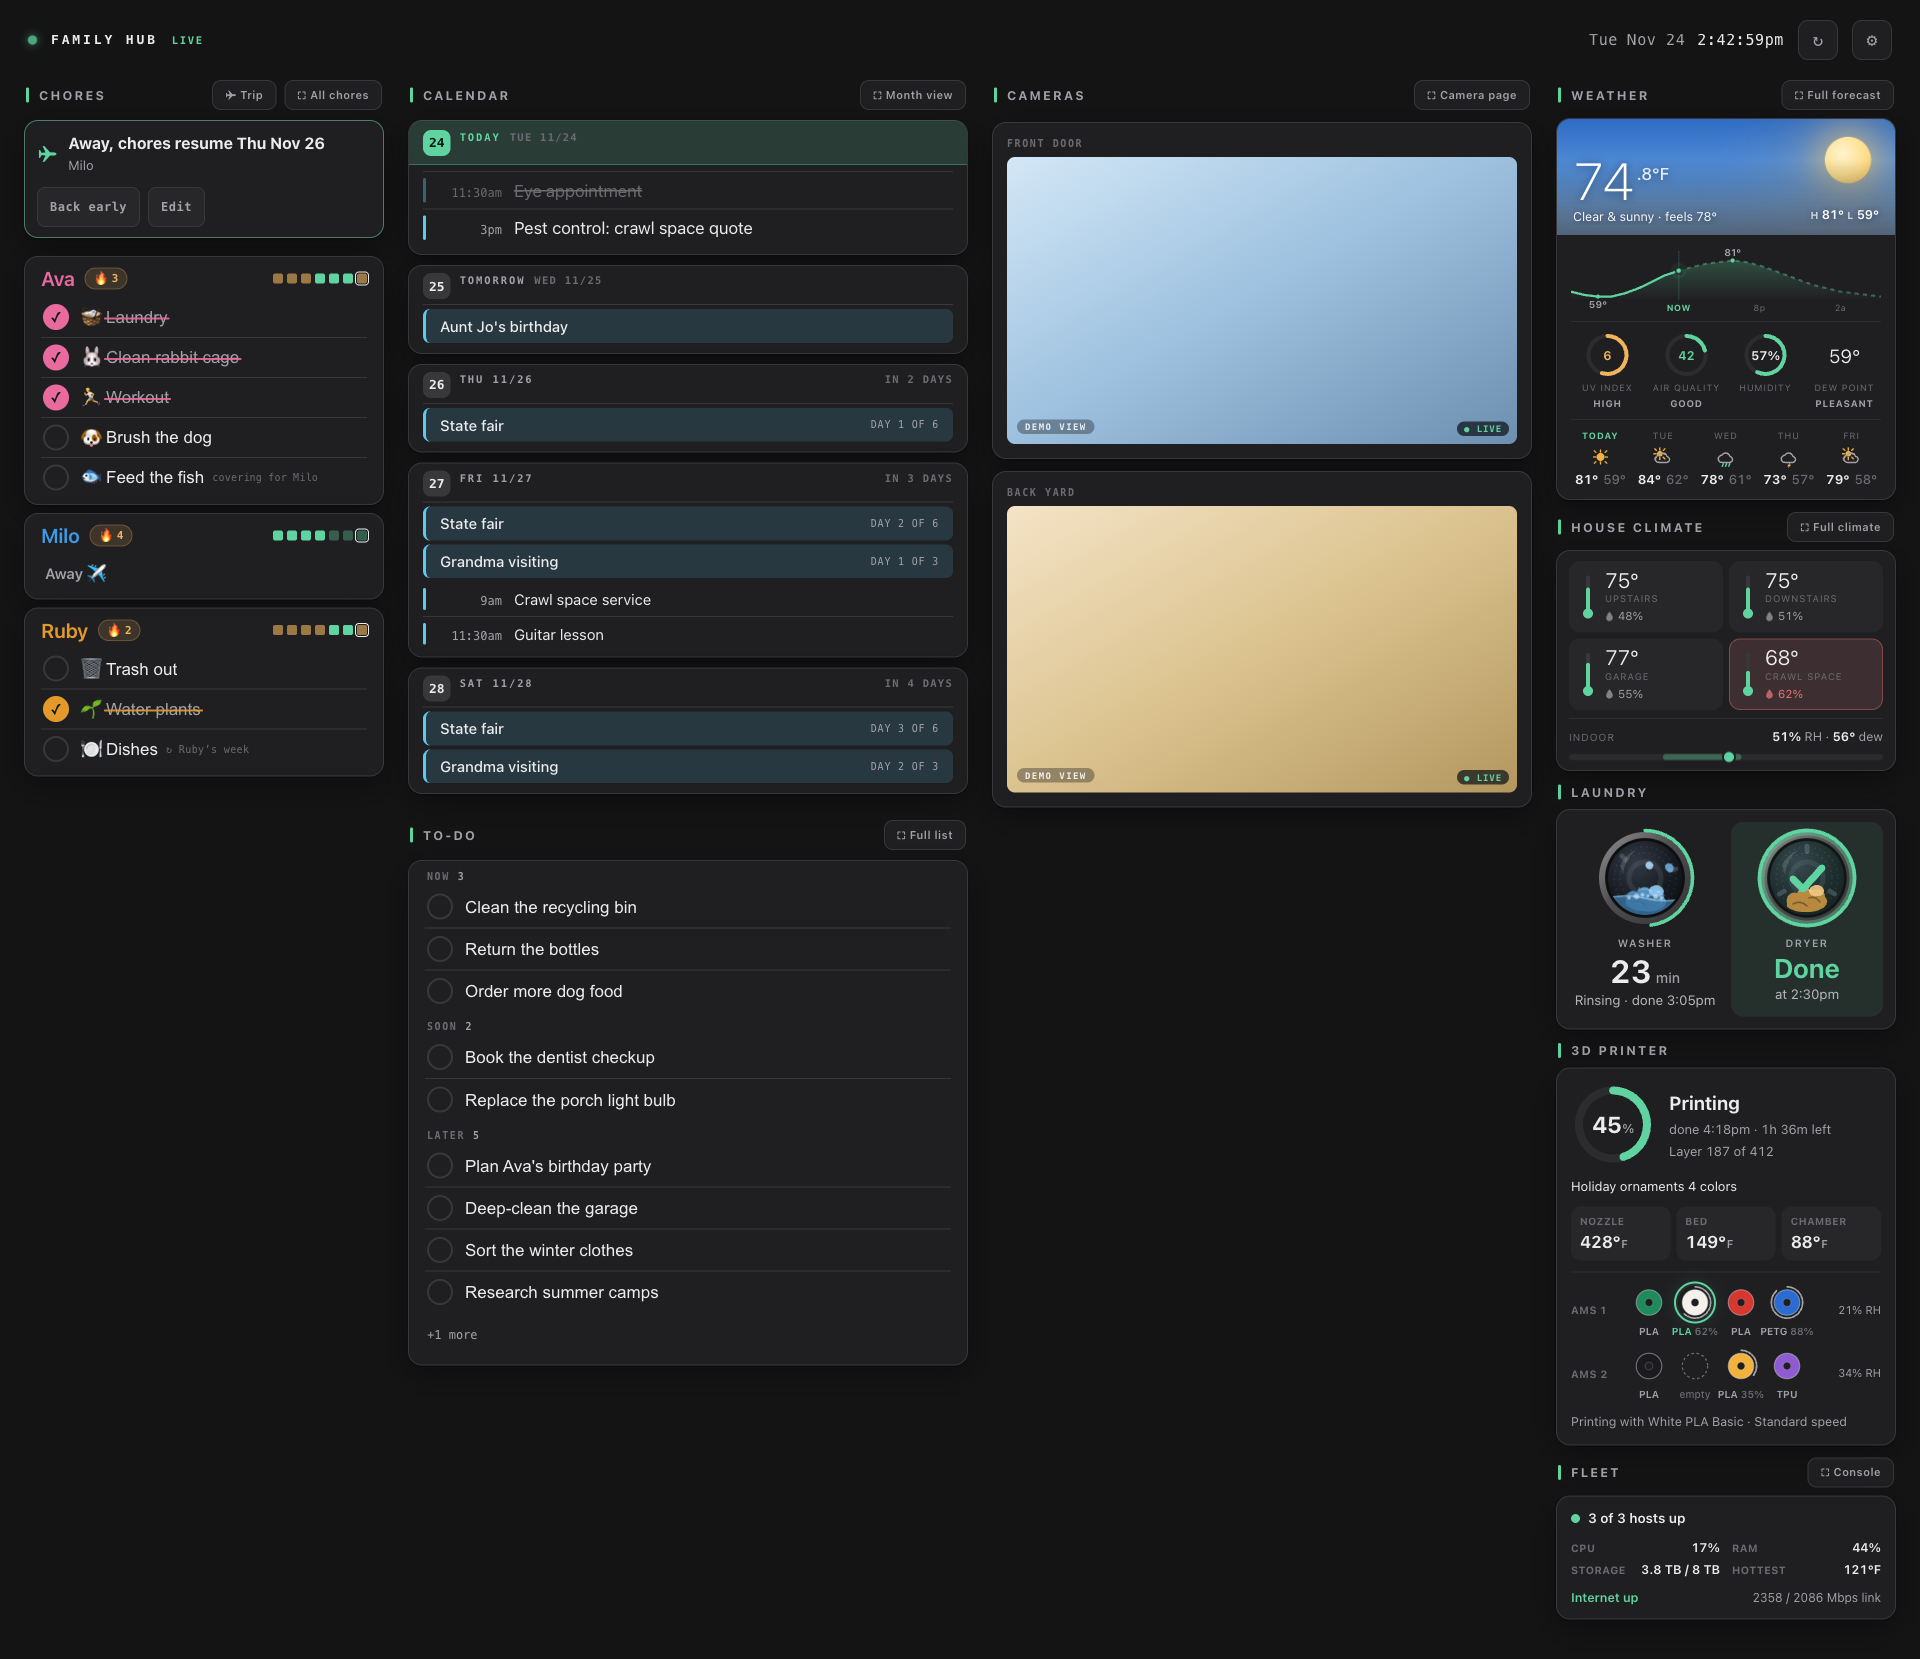
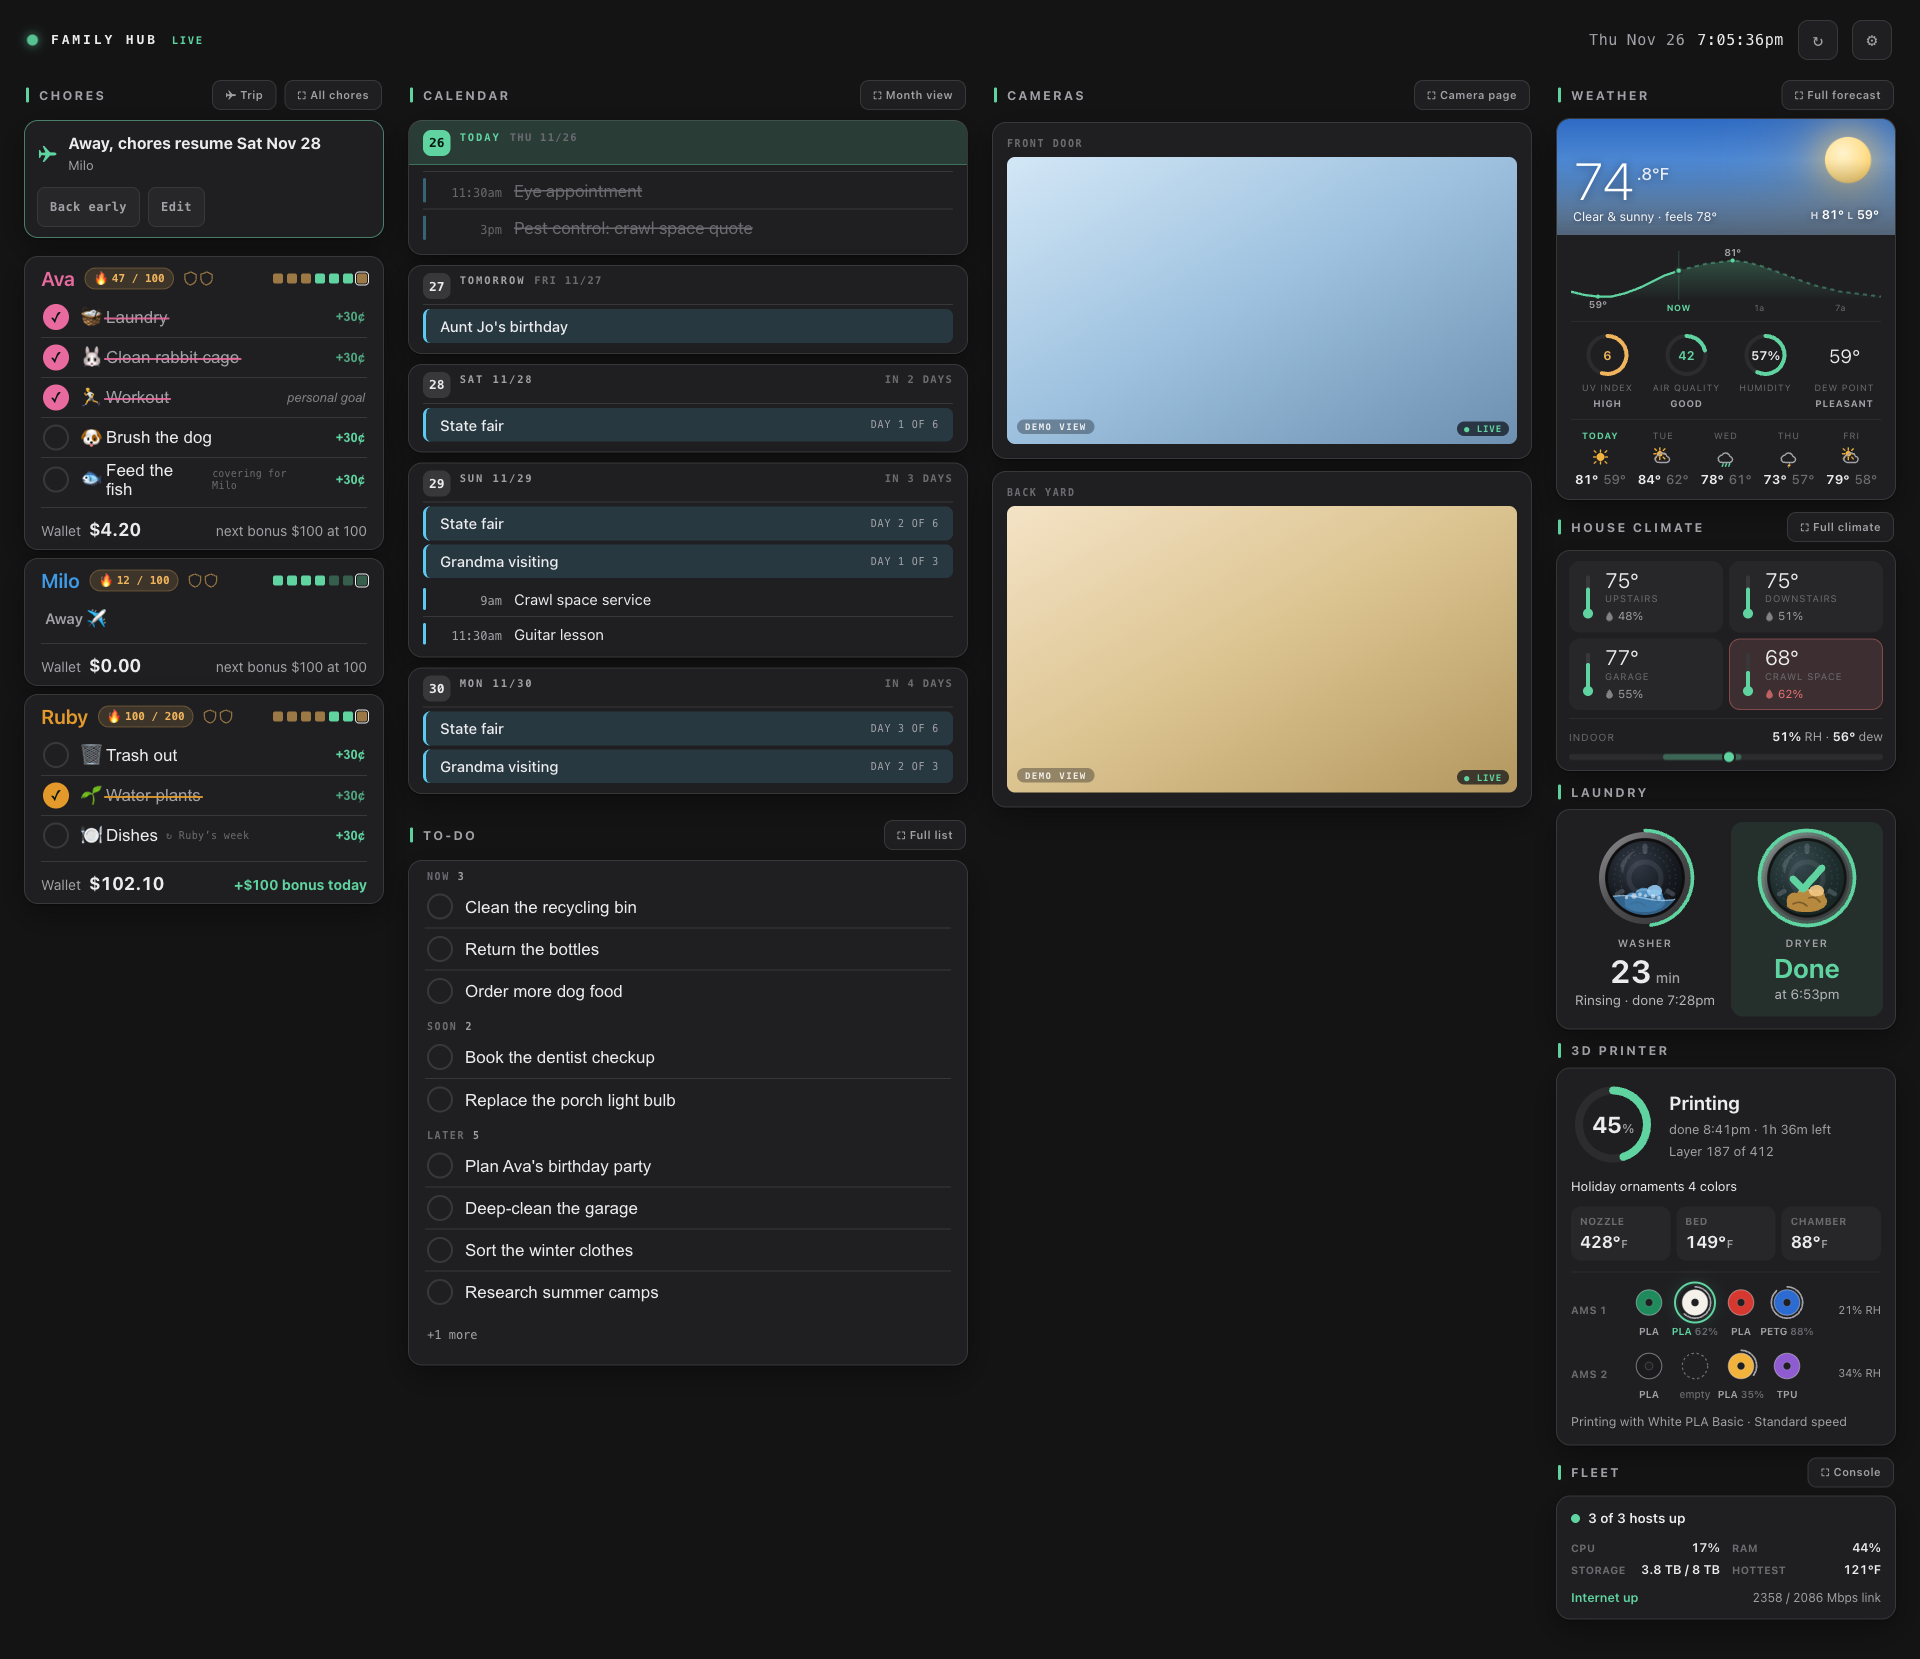
Docs: the chore wallet in the README, technical design and screenshots
Claude-Session: https://claude.ai/code/session_01VyTzhEEQ25vbitRwejCbWJ

diff --git a/README.md b/README.md
@@ -73,6 +73,15 @@ at one URL.
   every-few-days schedules, one-time chores due on a single date, a
   browsable day history, an away/pause mode so a trip never breaks a streak,
   and a one-shot confetti celebration when someone clears their day.
+- **Chore wallet (optional):** each house chore adds money to a wallet on
+  that person's card, and a long streak earns more: a bonus at set days
+  (default $100 at 100 days), higher pay per chore, or both. Streaks count
+  calendar days, so a light schedule moves as fast as a full one, and shields
+  let one missed day pass without starting over. Personal goals (reading,
+  vitamins) stay on the card without earning. Settings shows the projected
+  cost per week, month and year before you save, and keeps each child's
+  payouts. A parent PIN guards the money settings, payouts and fixes to old
+  days. Off until a parent sets a PIN and turns it on.
 - **To-Dos:** one shared household list for the stuff that isn't a scheduled
   chore — anyone adds, anyone checks off. Grouped Now / Soon / Later, items
   carry over until done, a checked item stays struck-through for five minutes
@@ -240,7 +249,8 @@ A deploy script can write `build_info.json` into the tree it builds from
 
 Want to see the whole wall before wiring up anything? Run it with `DEMO=1` and
 it comes up as a fully populated sample: a fake family (Ava, Milo, Ruby) with
-chores, streaks and a week strip, a shared to-do list, a few calendar events,
+chores, streaks, a week strip and the chore wallet (demo parent PIN
+`1234`), a shared to-do list, a few calendar events,
 canned weather and per-room climate cards, and placeholder camera tiles. No
 config, no calendars, no cameras, no feeds needed. Nothing reaches the network.
 
@@ -490,6 +500,17 @@ browser on the LAN. Deleting
 a person is history-safe: their frozen past days stay recorded, and they're
 stripped from every chore's rotation or fixed assignment; **Deactivate** is the
 reversible alternative.
+
+**The chore wallet** sits on top of this. Each chore is a house chore or a
+personal goal; only house chores earn and count. A day counts as kept when
+every house chore was done, or when nothing was due; away days and days the
+wall was down neither count nor break a run. Every row the wall serves is
+frozen with what it pays, so changing the amounts never rewrites the past.
+Bonuses and payouts are a ledger, and a bonus is paid once per run. With the
+wallet on, yesterday can be fixed until a morning cutoff (default 9:00) and
+anything older needs the parent PIN. Turning the wallet on keeps everyone's
+current streak and starts every wallet at $0. Rules: `rewards.py`; money:
+`wallet.py`; PIN: `parent_pin.py`.
 
 ## Backup
 

diff --git a/TECHNICAL_DESIGN.md b/TECHNICAL_DESIGN.md
@@ -518,6 +518,19 @@ family's existing chore/reward habit is served without polluting the calendar
 with non-native structure. Coexists with the Apolosign's own Calendar-Mode chore
 feature (PRD §7.10) rather than replacing it.
 
+### 8.1 The chore wallet (as built, 2026-11)
+The shipped web hub pays chores through an optional wallet, designed in
+`docs/superpowers/specs/2026-11-26-chore-wallet-design.md`. `rewards.py` is
+the pure rules layer: calendar-day streaks (a rest day is kept; away and
+unserved days are neutral), shields, repeating milestone bonuses, pay
+levels and cost projections. `wallet.py` reads the frozen
+`occurrence_log` (which now stores each row's `kind` and `cents`), the
+`served_days` table and the `ledger` table (bonuses and payouts, a bonus
+keyed by person, run and streak length so it can never pay twice).
+`parent_pin.py` holds the hashed PIN and its lockout; `app.py` gates
+old-day edits, money settings and payouts on it, and adds a `reward` block
+to the wall payload only while the wallet is on.
+
 ---
 
 ## 9. Widget Slot / Plugin Architecture (PRD §6, FR#8)
